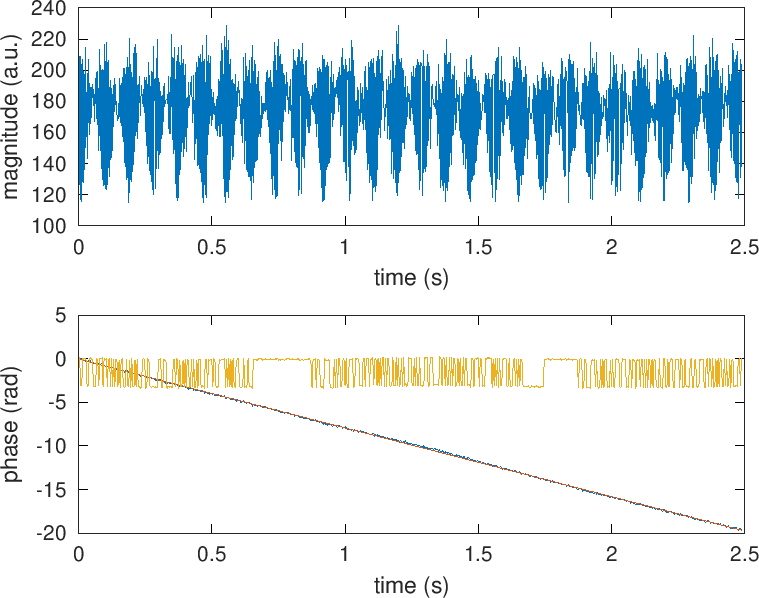
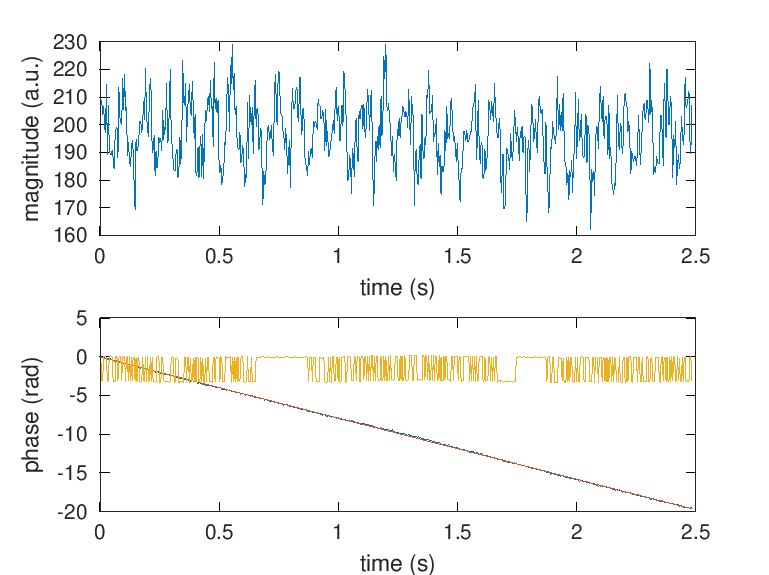
remove adjacent samples in correlation threshold

diff --git a/identify_delay.m b/identify_delay.m
@@ -59,22 +59,41 @@ for k=[ 1 16]                      % 1=OP01  16=LTFB01
       % p=p+1;
    end
    indices=find(abs(prnmap)>0.5*max(abs(prnmap)));
-   % dindinces=diff(indices);iindices=find(dindices>1);indices=indices(iindices);
-   sol=prnmap(indices);
-   [a,b]=polyfit(indices,unwrap(angle(sol)*2)/2,1); % *2 so that [0,pi] becomes [0,2pi]=0
+   % sol=prnmap(indices);                % introduces adjacent points above threshold: too simple
+   myposmax=[];    % search local minimum in each contiguous interval
+   mymaxm1=[];
+   sol=[];
+   mymaxp1=[];
+   correction=[];
+   p=1;
+   posd=indices(1);
+   for l=2:length(indices)
+       if ((indices(l)-indices(l-1))>3)  % more than one sample in threshold correlation peak
+          [~,tmp]=max(abs(prnmap(posd:indices(l-1))));
+          myposmax=[myposmax tmp+posd-1];
+          solm1=[mymaxm1 prnmap(tmp+posd-2)];
+          sol=[sol prnmap(tmp+posd-1)];
+          solp1=[mymaxp1 prnmap(tmp+posd)];
+          posd=indices(l);
+          [u,v]=polyfit([-1:+1]',abs(prnmap([tmp+posd-2:tmp+posd])),2);
+          correction(p)=-u(2)/2/u(1);
+          p=p+1;
+       end
+   end
+   [a,b]=polyfit(myposmax,unwrap(angle(sol)*2)/2,1); % *2 so that [0,pi] becomes [0,2pi]=0
  
    figure
-   subplot(211);plot(indices/fs,abs(sol)); xlabel('time (s)');ylabel('magnitude (a.u.)')
-   subplot(212);plot(indices/fs,unwrap(angle(sol)*2)/2);xlabel('time (s)');ylabel('phase (rad)')
-   hold on     ;plot(indices/fs,b.yf)
-   sol=sol.*exp(-j*indices*a(1));
+   subplot(211);plot(myposmax/fs,abs(sol)); xlabel('time (s)');ylabel('magnitude (a.u.)')
+   subplot(212);plot(myposmax/fs,unwrap(angle(sol)*2)/2);xlabel('time (s)');ylabel('phase (rad)')
+   hold on     ;plot(myposmax/fs,b.yf)
+   sol=sol.*exp(-j*myposmax*a(1));
    solangle=angle(sol); kp=find(solangle>2); solangle(kp)=solangle(kp)-2*pi;
-   plot(indices/fs,solangle,'-')
+   plot(myposmax/fs,solangle,'-')
    -freq(solution(freq_index))/2
    frequency_offset=a(1)/2/pi*fs
 
    % fine frequency offset 
-   df=-frequency_offset;
+   df=-frequency_offset;        % transpose again the previous transposed data
    lo=exp(j*2*pi*df*temps);     % local oscillator LO
    y=y.*lo;                     % frequency transposition by LO
    prnmap=xcorr(y,prn);         % prnmap(:,p)=xcorr(y,prn);
